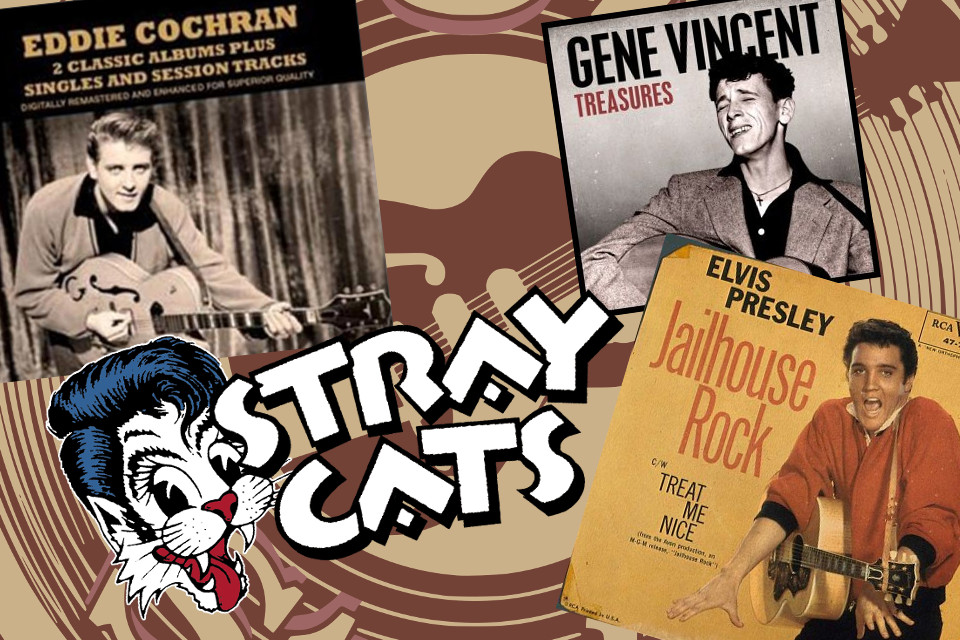
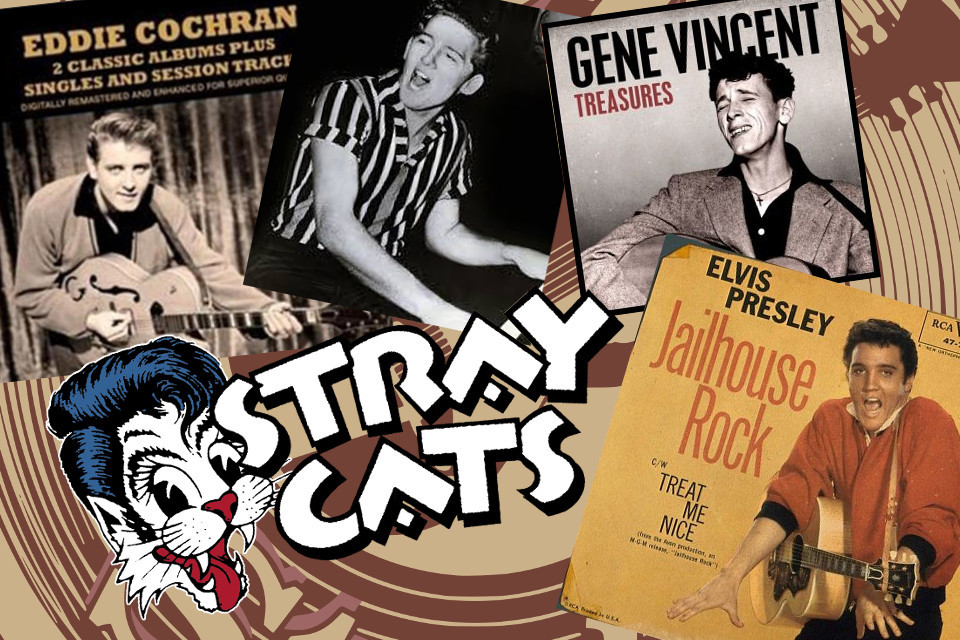
Ajout Jerry Lee Lewis

Changed region(s): [[0.25, 0.0, 0.5938, 0.5312]]

diff --git a/src/app/messages-service.service.ts b/src/app/messages-service.service.ts
@@ -29,11 +29,11 @@ export class MessagesService {
     photos: 'PHOTOS',
     videos: 'VIDEOS',
     contact: 'CONTACT',
-    bioText1: 'After having palyed in the rock’n’roll band <b>Charly Scooter</b> (1986 à1989) that became <b>Scooter Atomik Band</b> (1989 à 2001), <b>Pierre Dorso</b> relaunched in 2002 <b>Atomik Band III</b>.<br><br><p>Then in 2013, a Rockabilly band : <b>Riding Cats</b>.</p>',
+    bioText1: 'After having played in the rock’n’roll band <b>Charly Scooter</b> (1986 à1989) that became <b>Scooter Atomik Band</b> (1989 à 2001), <b>Pierre Dorso</b> relaunched in 2002 <b>Atomik Band III</b>.<br><br><p>Then in 2013, a Rockabilly band : <b>Riding Cats</b>.</p>',
     bioText2: 'Since then the <b>Riding Cats</b> was the back up band in 2013 for  <a href="https://youtu.be/b9EtazNlmkc"><b>Sandy Ford from "Flying Saucer"</b></a>,<p>for <a href="https://youtu.be/rS0bcuZj1Ec?list=PLGm5xu-Um8hcGVx5tSMt0bfaZZ2vaDg4x"><b>Jeannie Vincent</b></a> in 2014,</p><p>Opened for <b>Aux bonheur des Dames</b> at the festival <b>Rock &amp; Cars</b>,</p><p>And were the head lining band of the festival <b>Realcroche</b> 2016.</p>',
     bioText3: '<b>Pierre Dorso</b> founder of the band and ex guitarist of <b>Scooter</b> did open, several times, for <b>INMATES, Charly MC COY, CRAZY CAVAN</b>.',
     bioRepTitle: 'Repertoire',
-    bioRep: 'Gene Vincent, Eddie Cochran, Stray Cats, Elvis Presley and original songs.',
+    bioRep: 'Gene Vincent, Jerry Lee Lewis, Eddie Cochran, Stray Cats, Elvis Presley and original songs.',
     bioPress: '<p><b><u>Press</u></b></p><b>Guitar News</b> : 3 pages article in the April 1993 issue.',
     bioFormation: '<p><b><u>Formation</u></b></p><p>Pierre Dorso : Vocal /Lead Guitar</p><p>Fred N. : Drums Choeur</p><p>Fred C. : Double bass</p><p></p><p><b><u>Substitutes</u></b></p><p>Etienne Montastier : Drums</p><p>Eric Tantot : Double bass</p>',
     bioDisco: '<p><b><u>Discography</u></b></p><p>Two Days Recording Rockabilly</p><p>19 titles CD</p>',
@@ -49,7 +49,7 @@ export class MessagesService {
     bioText2: 'Depuis, les <b>Riding Cats</b> ont accompagné en 2013 <a href="https://youtu.be/b9EtazNlmkc"><b>Sandy Ford des "Flying Saucer"</b></a>,<p><a href="https://youtu.be/rS0bcuZj1Ec?list=PLGm5xu-Um8hcGVx5tSMt0bfaZZ2vaDg4x"><b>Jeannie Vincent</b></a> en 2014,</p><p>fait la 1ère partie de <b>Aux bonheur des Dames</b> au festival <b>Rock &amp; Cars</b>,</p><p>et sont passés en tête d’affiche au festival <b>Realcroche</b> 2016.</p>',
     bioText3: '<b>Pierre Dorso</b> fondateur du groupe et ex-guitariste de <b>Scooter</b> a fait les 1éres parties de <b>INMATES, Charly MC COY, CRAZY CAVAN</b> (à plusieurs reprises).',
     bioRepTitle: 'Répertoire',
-    bioRep: 'Gene Vincent, Eddie Cochran, Stray Cats, Elvis Presley et des compositions.',
+    bioRep: 'Gene Vincent, Jerry Lee Lewis, Eddie Cochran, Stray Cats, Elvis Presley et des compositions.',
     bioPress: '<p><b><u>Presse</u></b></p><b>Guitar News</b> : article de 3 pages dans le magasine d’Avril 1993.',
     bioFormation: '<p><b><u>Formation</u></b></p><p>Pierre Dorso : Vocal /Lead Guitar</p><p>Fred N. : Drums Choeur</p><p>Fred C. : Double bass</p><p></p><p><b><u>Remplaçants</u></b></p><p>Etienne Montastier : Drums</p><p>Eric Tantot : Double bass</p>',
     bioDisco: '<p><b><u>Discographie</u></b></p><p>Two Days Recording Rockabilly</p><p>CD 19 titres</p>',

diff --git a/src/assets/css/cssbox.css b/src/assets/css/cssbox.css
@@ -16,7 +16,7 @@ span.cssbox_full {
   opacity: 0;
   pointer-events: none;
   transition: opacity 0.5s linear;
-  z-index: 1;
+  z-index: 10;
 }
 
 span.cssbox_full img {
@@ -42,7 +42,7 @@ div.cssbox_next {
   visibility: hidden;
   color: white;
   font-size: 36px;
-  z-index: 1;
+  z-index: 10;
 }
 
 div.cssbox_close {
